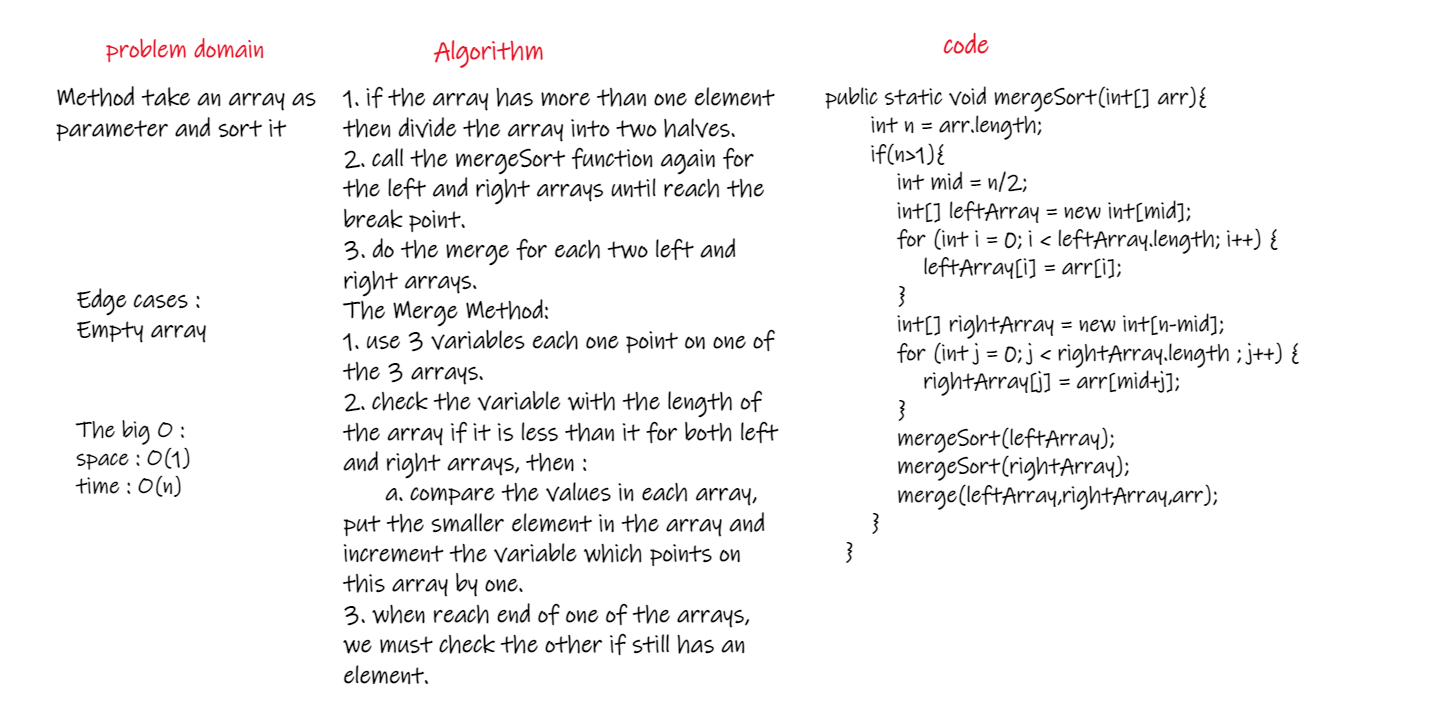
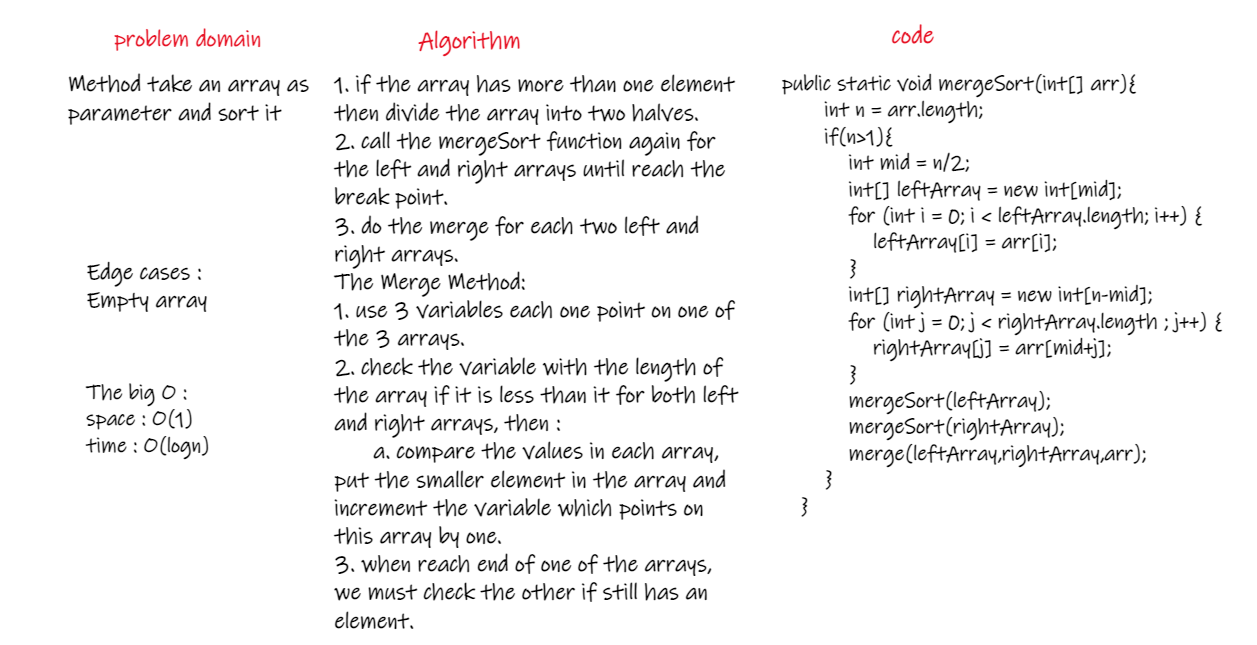
Challenge27

diff --git a/Challenge#27/README.md b/Challenge#27/README.md
@@ -19,7 +19,7 @@ Method take an array as parameter and sort it.
       a. compare the values in each array, put the smaller element in the array and increment the variable which points on this array by one.   
 3. when reach end of one of the arrays, we must check the other if still has an element.   
   
-The Big O space O(1) / time is O(n).  
+The Big O space O(1) / time is O(logn).  
   
   
 ## Solution
